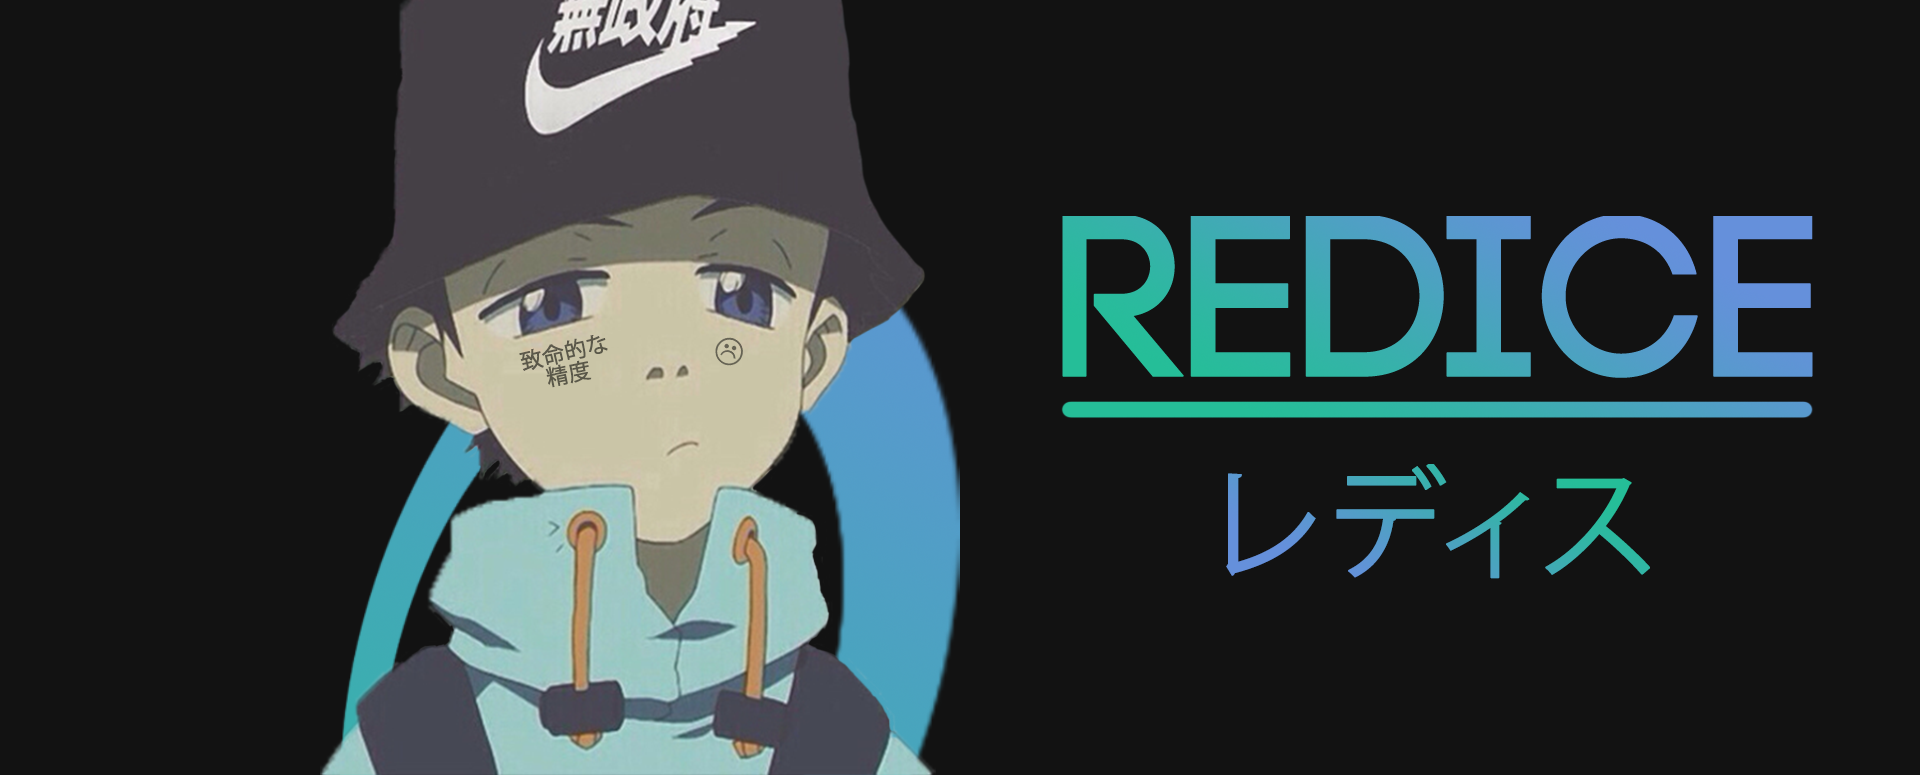
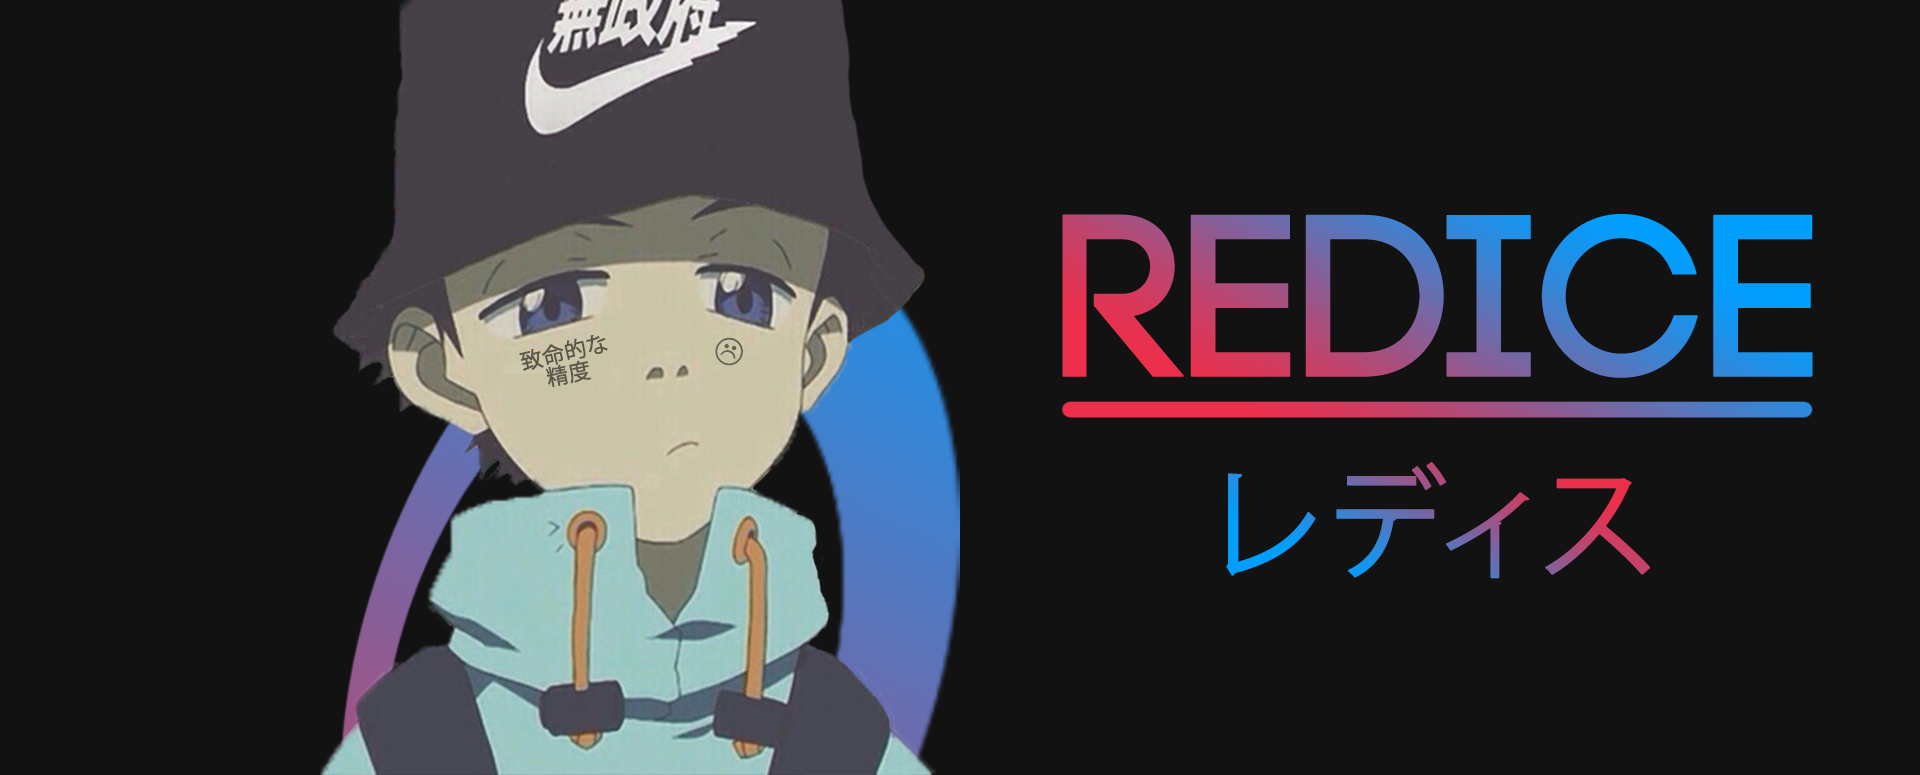
some card changes

diff --git a/css/main.css b/css/main.css
@@ -39,15 +39,15 @@ ul {
 }
 
 .undernav {
-    background-image: linear-gradient(to right, #25BE98, #6590DB);
+    background-image: linear-gradient(to right, #009FFF, #ec2F4B);
     height: 5px;
     width: 100vw;
 }
 
 .underline {
-    background-image: linear-gradient(to left, #25BE98, #6590DB);
+    background-image: linear-gradient(to left, #009FFF, #ec2F4B);
     height: 5px;
-    width: 100vw;
+    width: 100%;
 }
 
 .banner-image {
@@ -70,15 +70,25 @@ ul {
     align-content: center;
     justify-content: space-evenly;
     margin-top: 50px;
+
 }
 
 .card {
-
     background-color: #252527;
     border-radius: 15px;
-    height: 350px;
+    height: 500px;
     width: 325px;
     margin-top: 2px;
+    max-width: 325px;
+}
+@media screen and (max-width: 1022px) {
+    .cards {
+        flex-direction: column;
+        margin: 50px 42% 0 33%;
+    }
+    .card {
+        margin-bottom: 10px;
+    }
 }
 
 .undercard {
@@ -86,7 +96,16 @@ ul {
     display: flex;
     align-content: center;
     justify-content: space-evenly;
-    height: 355px;
+    height: 505px;
     width: 330px;
-    background-image: linear-gradient(to right, #25BE98, #6590DB);
+    background-image: linear-gradient(to right, #009FFF, #ec2F4B);
+}
+
+.card-pf {
+    margin: 5px 5.5rem 0 5.5rem;
+}
+
+.card-title {
+    color: #e1e1e1;
+    text-align: center;
 }

diff --git a/index.php b/index.php
@@ -26,7 +26,11 @@
     <div class="underline"></div>
     <div class="cards">
         <div class="undercard">
-            <div class="card bounceInRight">
+            <div class="card">
+                <img src="images/profilepic2.png" width="45%" height="145" class="card-pf">
+                    <h1 class="card-title">Who am I</h1>
+                <p>loremi</p>
+
             </div>
         </div>
         <div class="undercard">
